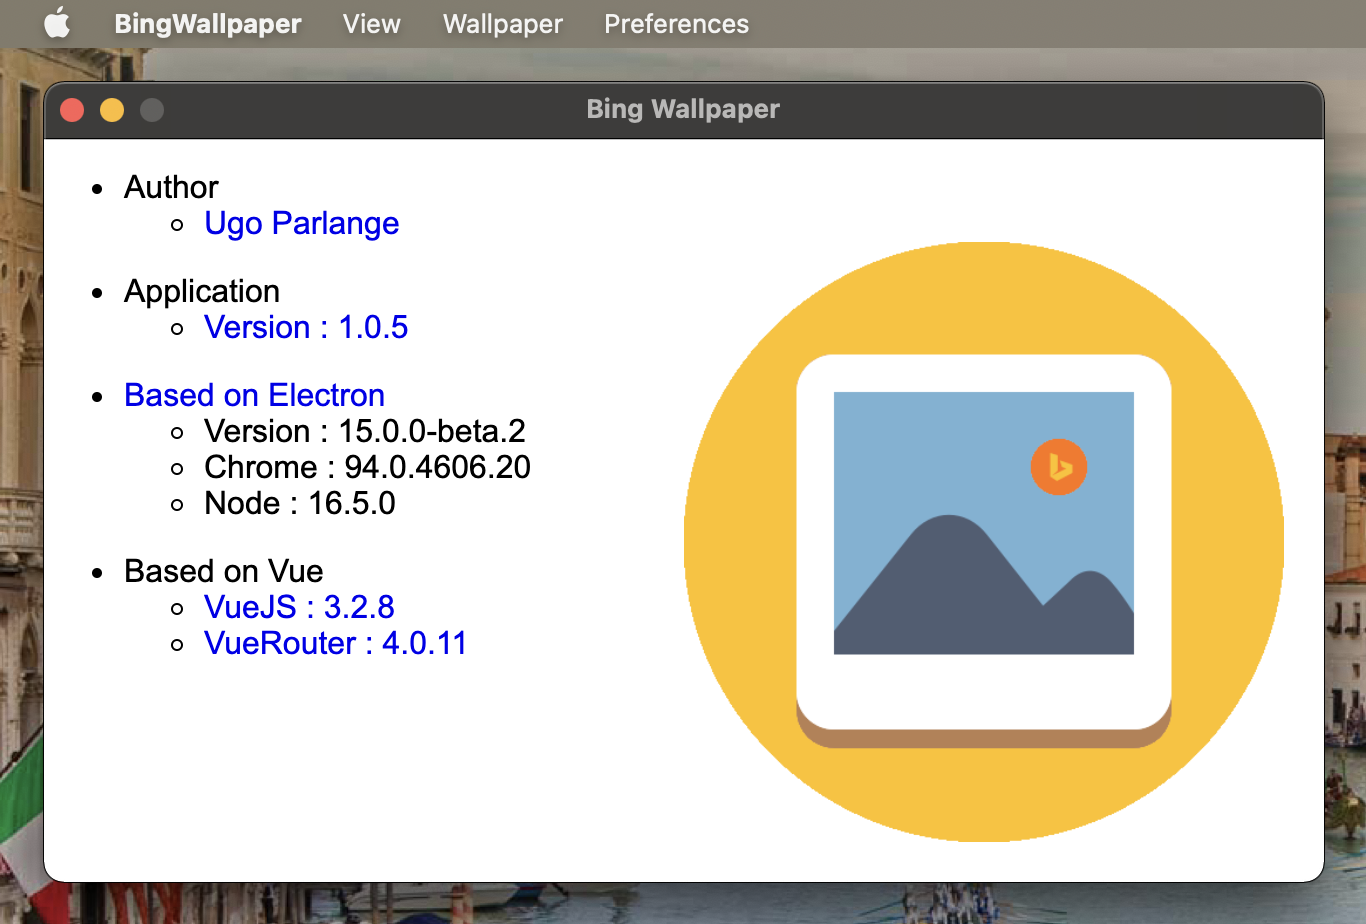
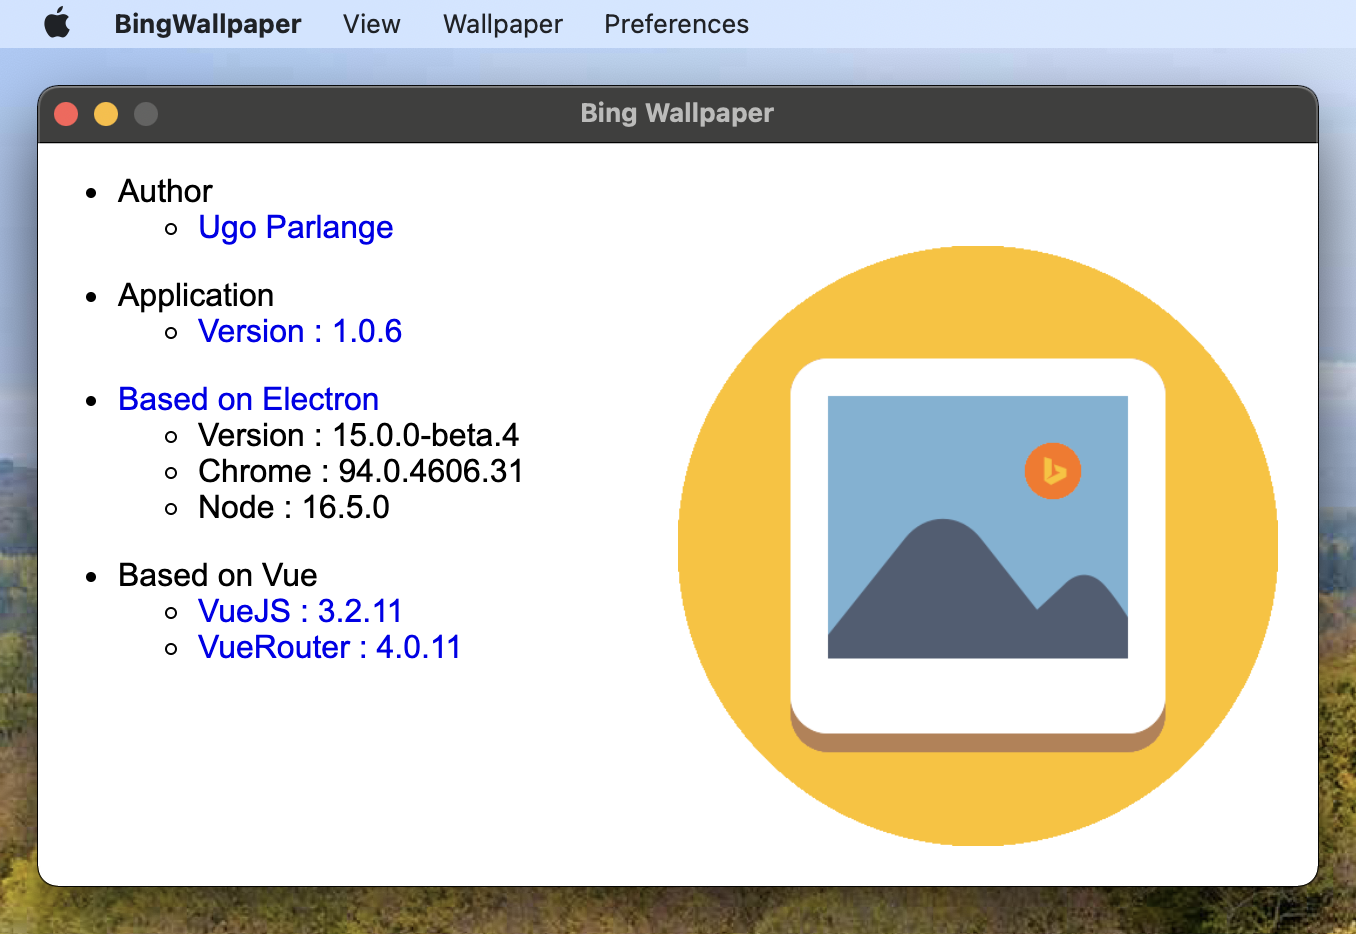
Release 1.0.6

diff --git a/README.md b/README.md
@@ -7,12 +7,12 @@
 * User preferences support (last displayed view, language, launch at startup)
 * Tray icon support
 * Online / Offline support
+* Auto update support
 
 # Downloads
 
-* [MacOS (Intel) : BingWallpaper-1.0.5.dmg](https://github.com/uparlange/bing-wallpaper/releases/download/v1.0.5/BingWallpaper-1.0.5.dmg)
-* [MacOS (M1) : BingWallpaper-1.0.5-arm64.dmg](https://github.com/uparlange/bing-wallpaper/releases/download/v1.0.5/BingWallpaper-1.0.5-arm64.dmg)
-* [Windows (x64) : BingWallpaper-1.0.5-nsis64.exe](https://github.com/uparlange/bing-wallpaper/releases/download/v1.0.5/BingWallpaper-1.0.5-nsis64.exe)
+* [MacOS (M1) : BingWallpaper-1.0.6-arm64.dmg](https://github.com/uparlange/bing-wallpaper/releases/download/v1.0.6/BingWallpaper-1.0.6-arm64.dmg)
+* [Windows (x64) : BingWallpaper-1.0.6-x64.exe](https://github.com/uparlange/bing-wallpaper/releases/download/v1.0.6/BingWallpaper-1.0.6-x64.exe)
 * Linux : Todo, maybe ....
 
 # Screenshots
